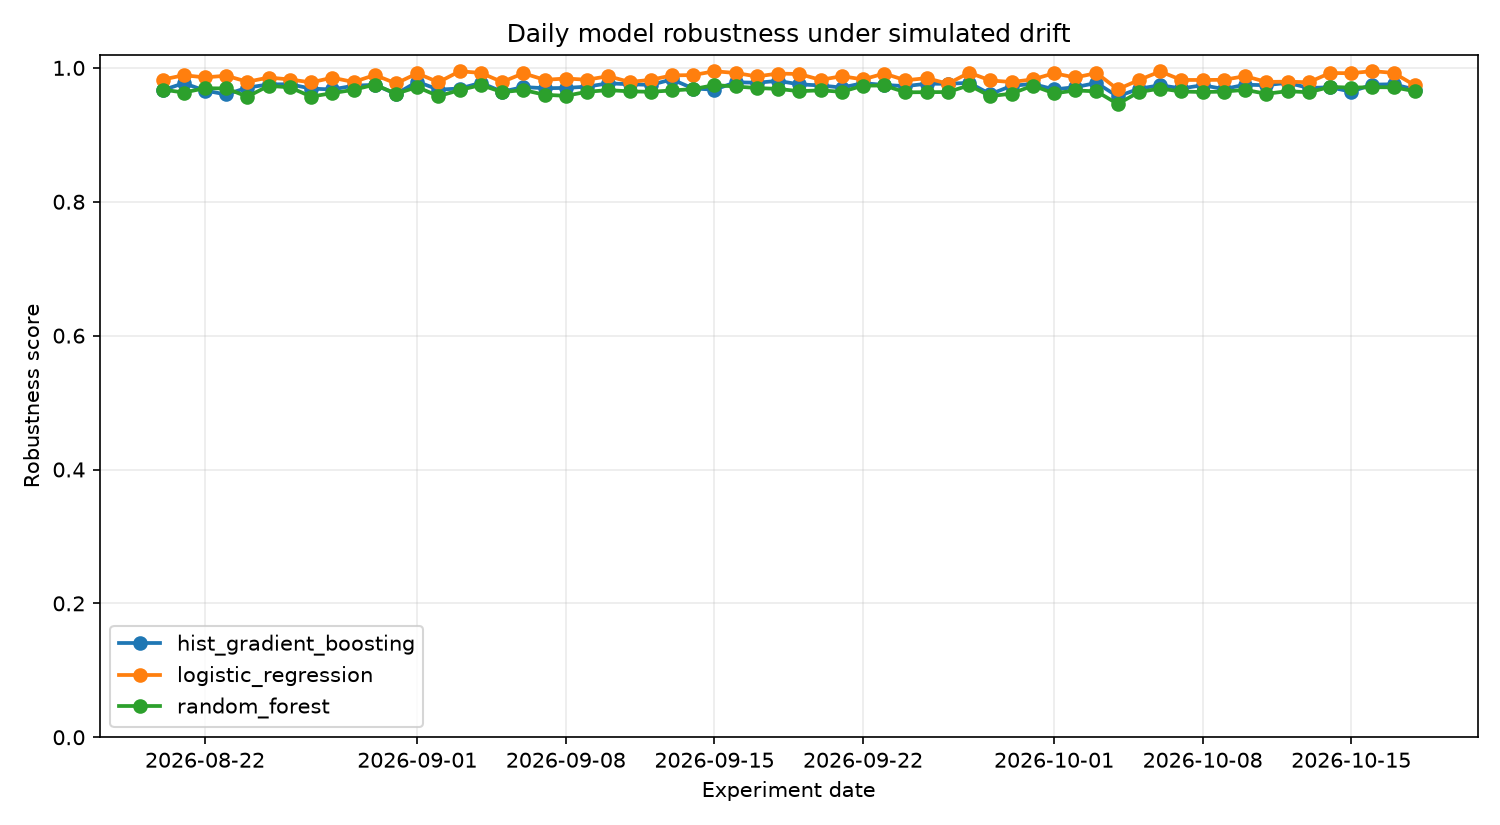
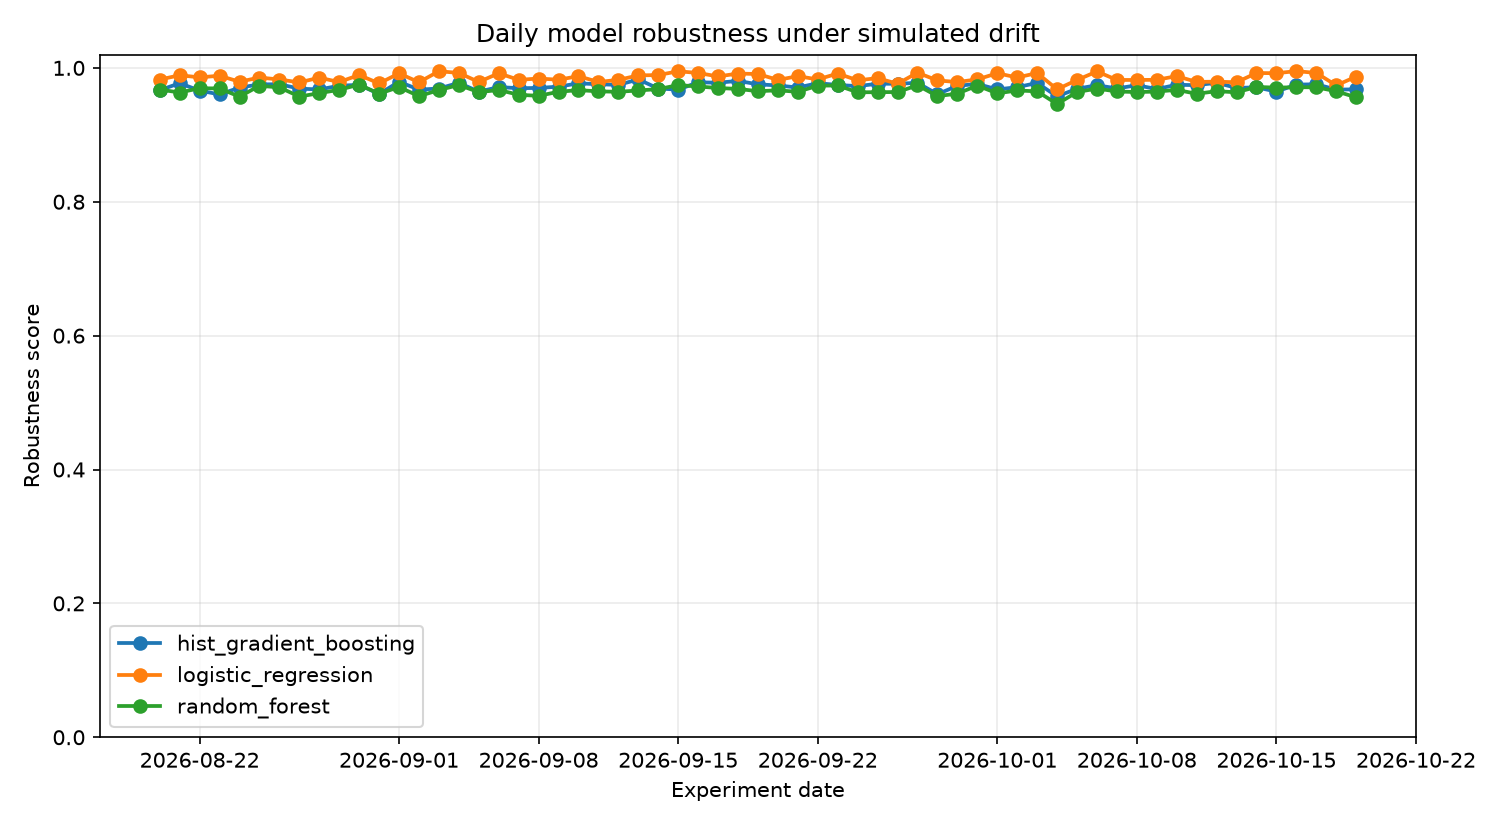
chore(observatory): daily drift benchmark 2026-10-19

Changed region(s): [[0.092, 0.0303, 0.9507, 0.1515], [0.2147, 0.9091, 0.9813, 0.9697], [0.092, 0.9091, 0.184, 0.9394]]

diff --git a/reports/latest.md b/reports/latest.md
@@ -1,37 +1,37 @@
 # Latest DriftWatch Report
 
-**Experiment date:** 2026-10-18
+**Experiment date:** 2026-10-19
 
 ## Drift scenario
 
-- Drift strength: `0.439`
-- Scale factor: `1.044`
-- Noise ratio: `0.078`
-- Mask ratio: `0.020`
-- Affected features: mean radius, texture error, symmetry error, worst radius, worst smoothness, worst concave points, worst symmetry
+- Drift strength: `0.478`
+- Scale factor: `0.952`
+- Noise ratio: `0.082`
+- Mask ratio: `0.022`
+- Affected features: mean compactness, radius error, area error, compactness error, symmetry error, fractal dimension error, worst smoothness
 
 ## Model ranking
 
 | Rank | Model | Robustness | ROC-AUC | F1 | Balanced Acc. | Log Loss | Brier |
 |---:|---|---:|---:|---:|---:|---:|---:|
-| 1 | `logistic_regression` | 0.9739 | 0.9988 | 0.9561 | 0.9579 | 0.1266 | 0.0410 |
-| 2 | `hist_gradient_boosting` | 0.9676 | 0.9920 | 0.9515 | 0.9501 | 0.1608 | 0.0463 |
-| 3 | `random_forest` | 0.9651 | 0.9930 | 0.9469 | 0.9423 | 0.1590 | 0.0463 |
+| 1 | `logistic_regression` | 0.9870 | 0.9975 | 0.9811 | 0.9782 | 0.0736 | 0.0201 |
+| 2 | `hist_gradient_boosting` | 0.9679 | 0.9854 | 0.9636 | 0.9406 | 0.1396 | 0.0348 |
+| 3 | `random_forest` | 0.9560 | 0.9914 | 0.9340 | 0.9157 | 0.1365 | 0.0389 |
 
 ## Highest feature drift (PSI)
 
 | Feature | PSI |
 |---|---:|
-| texture error | 0.4703 |
-| symmetry error | 0.4015 |
-| worst radius | 0.2575 |
-| worst concave points | 0.2089 |
-| mean radius | 0.1918 |
-| worst smoothness | 0.1667 |
-| worst symmetry | 0.1506 |
-| radius error | 0.1413 |
+| area error | 1.0251 |
+| radius error | 0.4876 |
+| fractal dimension error | 0.3428 |
+| symmetry error | 0.2963 |
+| compactness error | 0.2154 |
+| mean compactness | 0.2096 |
+| worst smoothness | 0.1899 |
+| mean texture | 0.1861 |
 
-**Mean PSI:** `0.1198`  
-**Max PSI:** `0.4703`
+**Mean PSI:** `0.1559`  
+**Max PSI:** `1.0251`
 
 _Generated automatically by the DriftWatch daily observatory pipeline._
